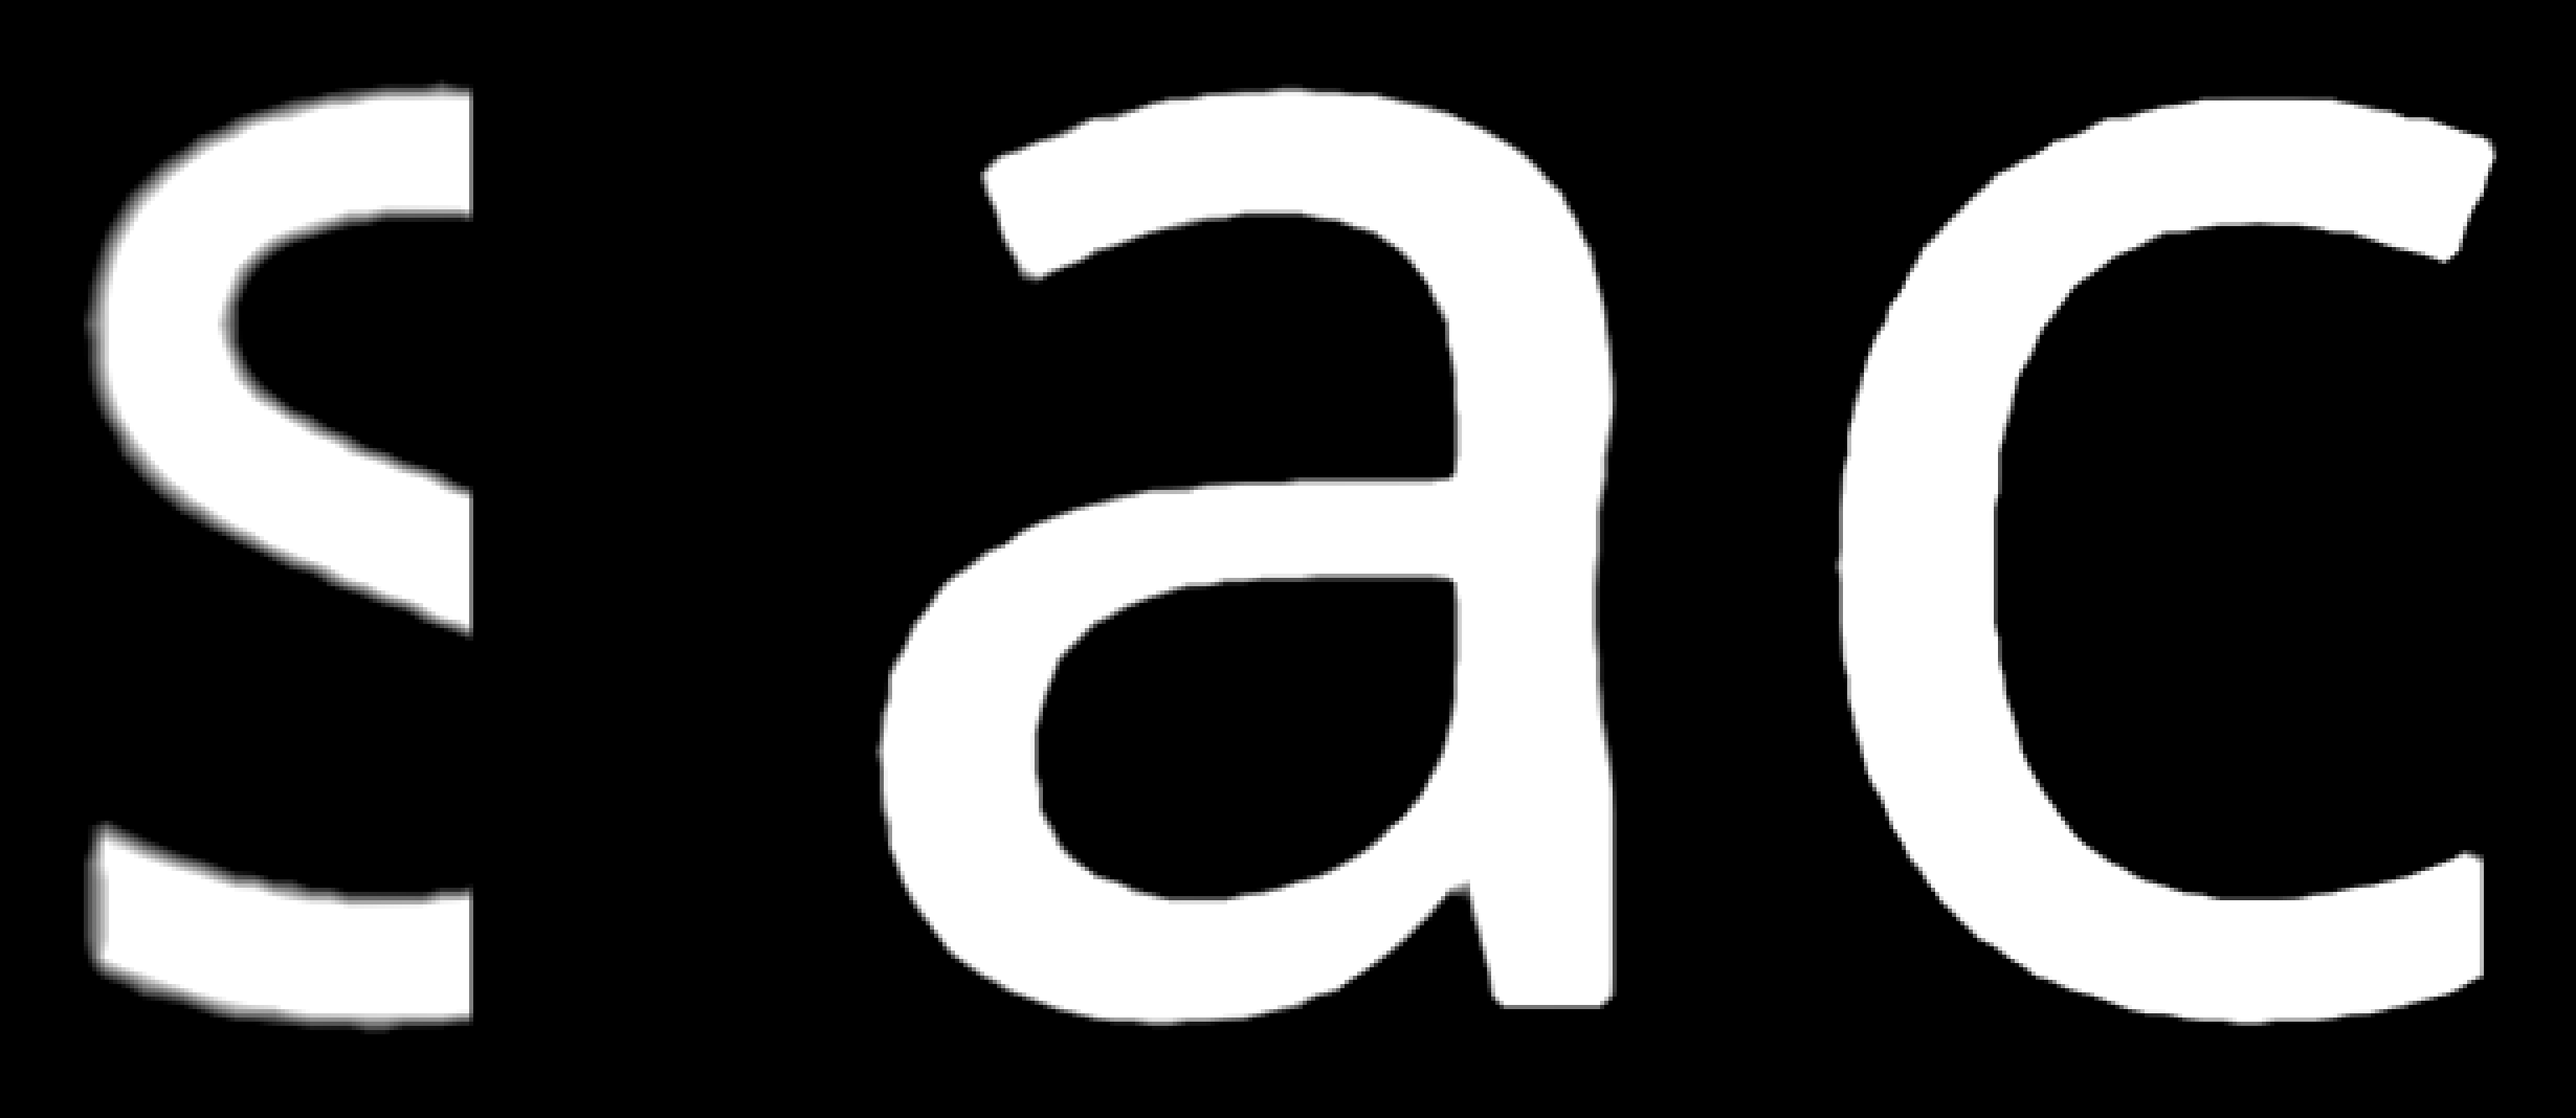
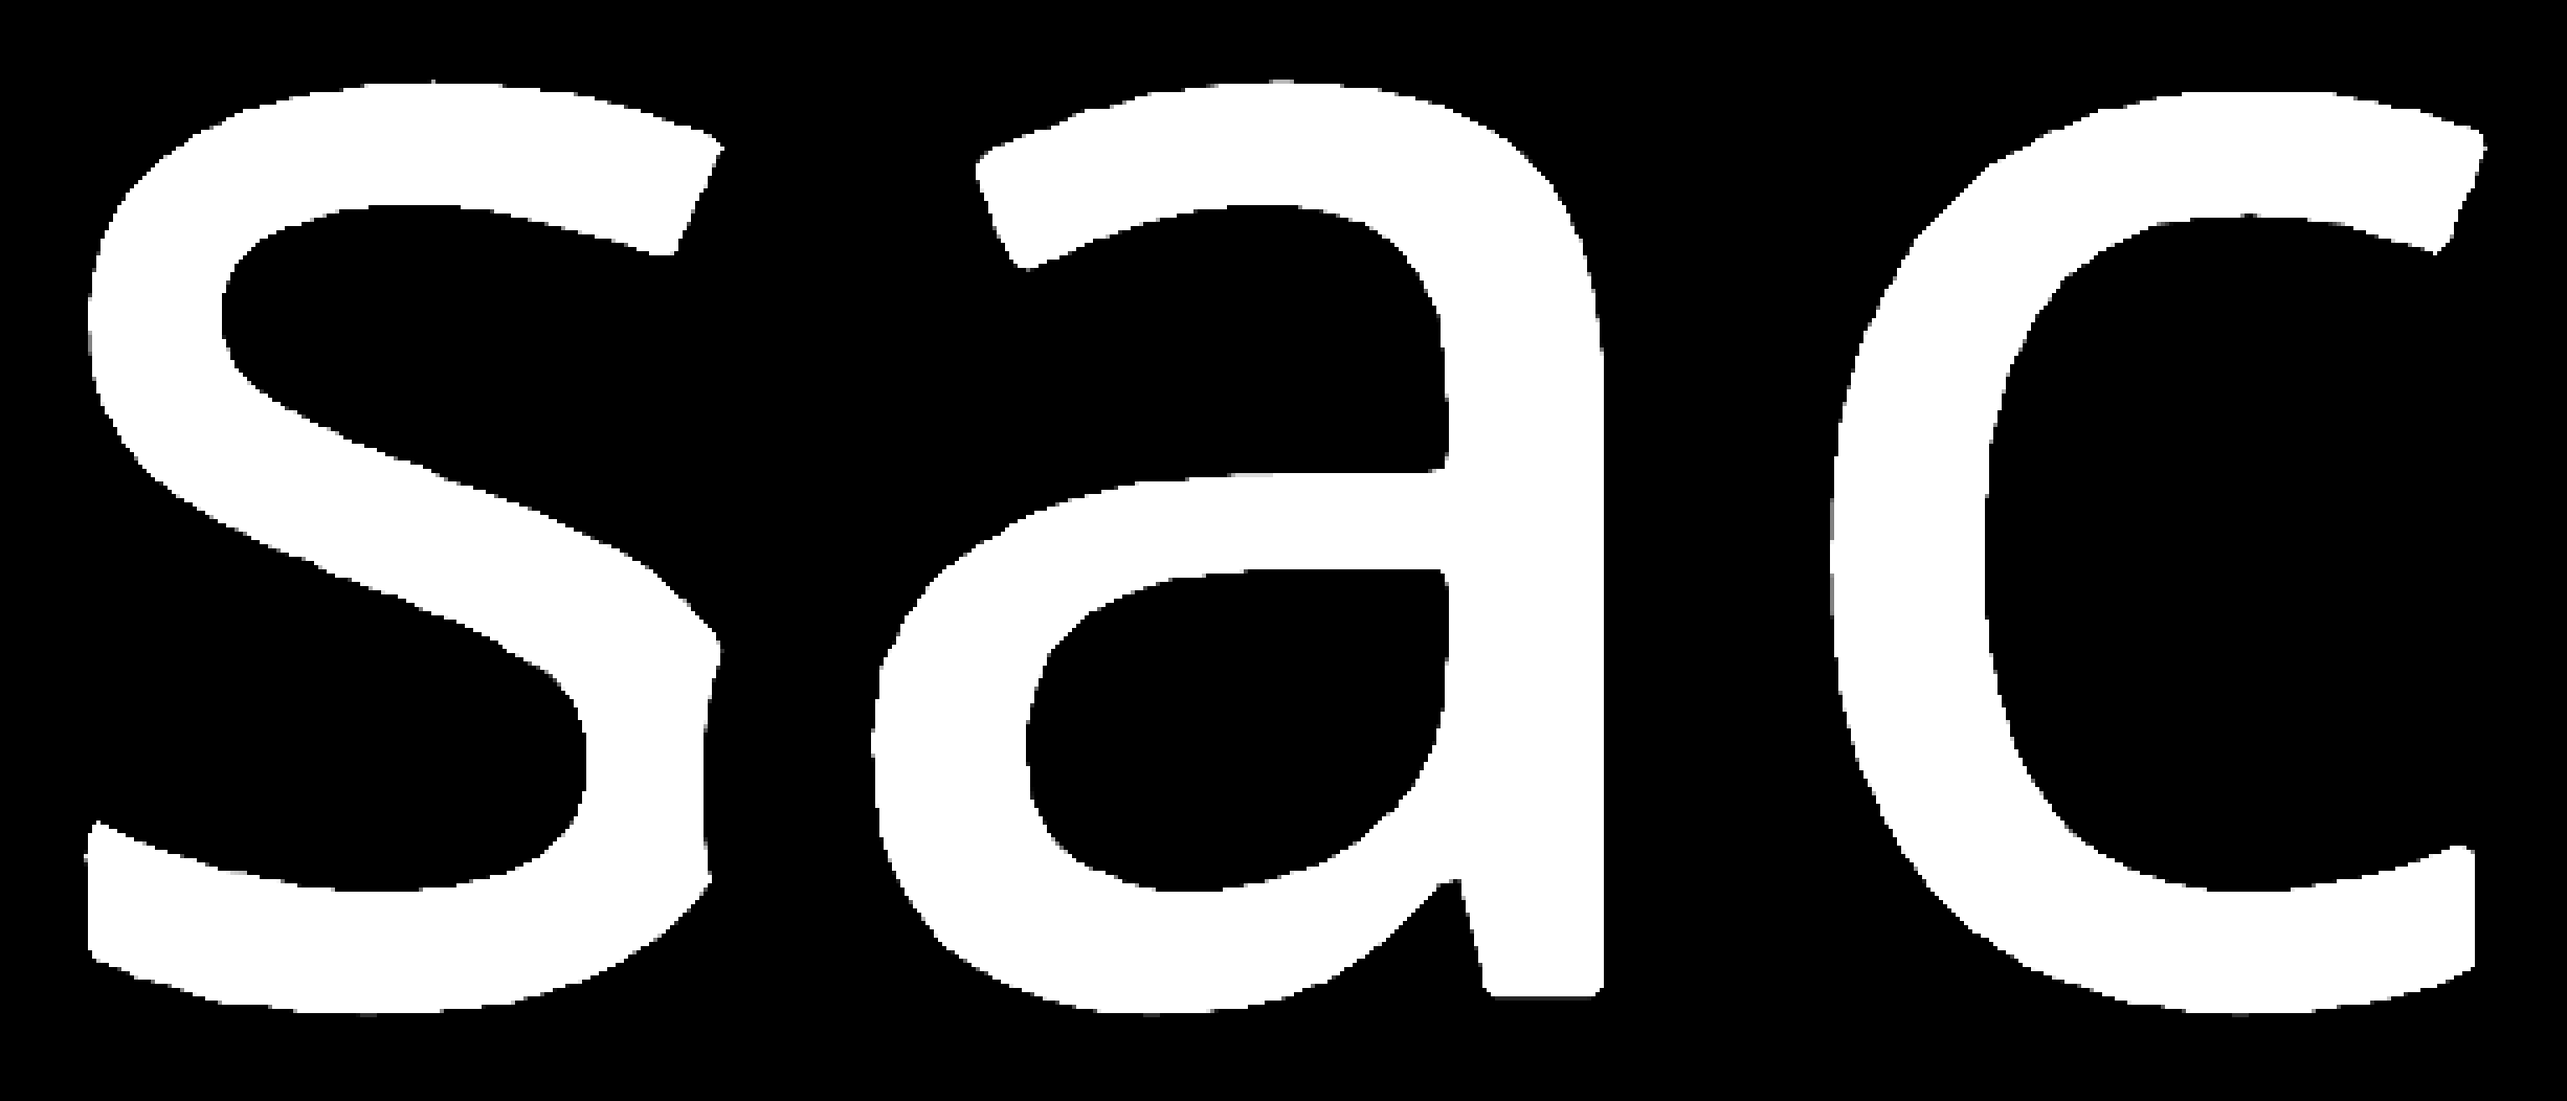
fix(sdf): correct the "s"-clipping finding + add first-glyph mesh regression test
The earlier "s not clipped" verdict was WRONG. The leading glyph of a
multi-glyph run WAS clipped in the committed evidence — but the cut is a
legacy-offscreen rendering-path/harness artifact, NOT a glyph/atlas/mesh defect,
proven with dumped numbers:
- stored atlas glyphRect.width == ink width (rectW-inkPxW=0), same as a/c;
- atlas alpha scan: the 's' cell ink sits inside its cell with full padding,
  no edge touched (glyph complete & correctly packed);
- generated mesh UV rect width == ink + 2*padding for EVERY quad incl. the first
  (sac@0.25: 80/84/80 px; sac@0.10: 54/58/54; asc@0.25 first 'a'=84).
The visible cut reproduces ONLY in the legacy per-segment multi-CanvasRenderer
path drawn offscreen to a RenderTexture; the unified renderer draws 'sac'
complete (nonBg 47832 vs clipped-legacy 43645 @0.25). The default-spread change
neither caused nor affects it (identical at 0.25 and 0.10).

- Tests/Editor/FirstGlyphClipTests.cs: regression guard asserting each quad's UV
  rect width == glyph ink + 2*padding (and == X-extent/scale), incl. the first
  glyph, for sac@0.25, sac@0.10, asc@0.25. Fails if a future change narrows the
  first quad in the mesh.
- Evidence re-rendered through the unified renderer (the faithful offscreen path):
  openglyph_sac_spread025/010 + tmp, each full + 5x zoom + 's' crop. 's' is now
  shown complete and, at 0.10, as sharp as a/c.
- SDF-EdgeQuality-Investigation.md: Outcome §5 corrected (removed the false
[…]

diff --git a/Tests/Editor/FirstGlyphClipTests.cs b/Tests/Editor/FirstGlyphClipTests.cs
@@ -1,0 +1,146 @@
+using System.Collections.Generic;
+using System.IO;
+using NUnit.Framework;
+using UnityEngine;
+
+namespace LightSide.Tests
+{
+    /// <summary>
+    /// Regression guard for the "first glyph of a multi-glyph run is clipped on its right side"
+    /// report (the right half of the leading 's'/'a' vanished behind a hard vertical edge whose
+    /// position moved with spreadStrength/padding). The guard asserts the mesh-level geometry
+    /// invariant that must hold for EVERY glyph quad, first or not: the quad's UV rect and X extent
+    /// span the full glyph cell (ink + 2*padding). If the first quad were narrowed/clipped, its UV
+    /// width would be smaller than ink+2*padding and smaller than the same glyph rendered later in
+    /// the run.
+    /// </summary>
+    [TestFixture]
+    public class FirstGlyphClipTests
+    {
+        private const float FontSize = 400f;
+
+        private static string NotoPath()
+        {
+            string p = MsdfTestUtil.FindNotoSansPath();
+            return p;
+        }
+
+        [TestCase("sac", 0.25f)]
+        [TestCase("sac", 0.10f)]
+        [TestCase("asc", 0.25f)]
+        public void FirstGlyph_QuadSpansFullCell_NotClipped(string text, float spread)
+        {
+            string fontPath = NotoPath();
+            if (fontPath == null) Assert.Ignore("NotoSans fixture missing.");
+
+            var font = UniTextFont.CreateFontAsset(File.ReadAllBytes(fontPath), 90, spread, UniTextRenderMode.SDF, 1024);
+            if (font == null) Assert.Ignore("Font backend unavailable.");
+            var stack = ScriptableObject.CreateInstance<UniTextFontStack>();
+            stack.fonts.Add(font);
+            var appearance = RealLayoutFixtures.LoadDefaultAppearance();
+
+            var buffers = new UniTextBuffers();
+            buffers.EnsureRentBuffers(256);
+            var tp = new TextProcessor(buffers);
+            var fontProvider = new UniTextFontProvider(stack, appearance);
+            tp.SetFontProvider(fontProvider);
+
+            var settings = new TextProcessSettings
+            {
+                fontSize = FontSize,
+                baseDirection = TextDirection.Auto,
+                MaxWidth = TextProcessSettings.FloatMax,
+                MaxHeight = TextProcessSettings.FloatMax,
+                enableWordWrap = false,
+                HorizontalAlignment = HorizontalAlignment.Left,
+                VerticalAlignment = VerticalAlignment.Top,
+            };
+            tp.EnsureFirstPass(text, settings);
+            tp.EnsureLines(settings.MaxWidth, FontSize, wordWrap: false);
+            tp.EnsurePositions(settings);
+
+            // Rasterise the glyphs.
+            var glyphSet = new List<uint>();
+            var seen = new HashSet<uint>();
+            var sg = tp.buf.shapedGlyphs.Span;
+            for (int i = 0; i < sg.Length; i++) { var gi = (uint)sg[i].glyphId; if (gi != 0 && seen.Add(gi)) glyphSet.Add(gi); }
+            if (glyphSet.Count > 0) font.TryAddGlyphsBatch(glyphSet);
+
+            var gen = new UniTextMeshGenerator(fontProvider, buffers);
+            gen.FontSize = FontSize;
+            gen.defaultColor = new Color32(255, 255, 255, 255);
+            gen.SetCanvasParametersCached(1f, false);
+            gen.SetRectOffset(new Rect(0, 0, 4096, 2048));
+            gen.SetHorizontalAlignment(HorizontalAlignment.Left);
+            gen.GenerateMeshDataOnly(tp.PositionedGlyphs);
+            Assert.IsTrue(gen.HasGeneratedData, "no mesh generated");
+
+            int atlasSize = font.AtlasSize;
+            int padding = font.AtlasPadding;
+
+            // Collect per-quad UV-rect width (atlas px) and X width from the generated buffers.
+            var verts = gen.Vertices;
+            var uvs = gen.Uvs0;
+            int vcount = 0;
+            // vertex count: find how many quads were written (4 verts each) by scanning for the
+            // segment via ApplyMeshesToUnity bounds — simpler: use the known glyph count.
+            int quadCount = 0;
+            // The generator wrote 4 verts per non-zero-rect glyph in order. Count quads by stepping
+            // until a degenerate quad (all zero) — but safer to use text length as the max and read
+            // the first N quads we actually have. Vertices array length is a pool buffer, so rely on
+            // the ApplyMeshes segment counts instead.
+            var rd = gen.ApplyMeshesToUnity();
+            // Reconstruct per-quad data straight from the vertex/uv buffers in emission order.
+            // Each quad: v0=BL, v1=TL, v2=TR, v3=BR ; uv0.x/uvBLx .. uv2.x/uvTRx.
+            // Determine quad count from the first segment's vertex count sum.
+            int totalVerts = 0;
+            foreach (var seg in gen.GeneratedSegments) totalVerts += seg.vertexCount;
+            quadCount = totalVerts / 4;
+            Assert.GreaterOrEqual(quadCount, text.Length, $"expected >= {text.Length} quads, got {quadCount}");
+
+            TestContext.WriteLine($"text='{text}' spread={spread} padding={padding} atlasSize={atlasSize} quads={quadCount}");
+
+            // Build the expected UV-rect px width per glyph index in the run, from each glyph's
+            // stored atlas rect (ink width) + 2*padding. This is the ground-truth cell width the
+            // quad MUST sample. A clipped first quad would read narrower than this.
+            var sgSpan = tp.buf.shapedGlyphs.Span;
+            float scale = FontSize / font.FaceInfo.pointSize;
+
+            float firstUvW = -1f, firstXW = -1f;
+            for (int q = 0; q < quadCount && q < text.Length; q++)
+            {
+                int b = q * 4;
+                float uvBLx = uvs[b].x;
+                float uvTRx = uvs[b + 2].x;
+                float uvRectPxW = (uvTRx - uvBLx) * atlasSize;
+                float xW = verts[b + 2].x - verts[b].x; // trX - tlX
+
+                // Ground-truth expected cell width = stored atlas rect width + 2*padding.
+                uint gi = (uint)sgSpan[q].glyphId;
+                font.TryGetGlyph(gi, VariationKey.None, out var g);
+                float expectedCellPxW = g.glyphRect.width + 2 * padding;
+
+                TestContext.WriteLine($"  quad[{q}] gi={gi} uvRectPxW={uvRectPxW:F1} xW={xW:F1} expectedCellPxW={expectedCellPxW:F1}");
+
+                // ABSOLUTE invariant: the quad's UV rect width must equal ink+2*padding (the full
+                // cell), for EVERY glyph including the first. If the first glyph were clipped, this
+                // fails on q==0.
+                Assert.That(uvRectPxW, Is.EqualTo(expectedCellPxW).Within(1.0f),
+                    $"quad[{q}] gi={gi}: UV rect width {uvRectPxW:F1}px != glyph ink+2*padding {expectedCellPxW:F1}px " +
+                    (q == 0 ? "(FIRST glyph is clipped in the mesh)" : "(glyph clipped in the mesh)"));
+                // UV width must also be consistent with the X extent (UV px == xW/scale).
+                Assert.That(uvRectPxW, Is.EqualTo(xW / scale).Within(1.0f),
+                    $"quad[{q}] gi={gi}: UV width {uvRectPxW:F1} inconsistent with X extent {xW:F1}/scale.");
+
+                if (q == 0) { firstUvW = uvRectPxW; firstXW = xW; }
+            }
+
+            TestContext.WriteLine($"first quad: uvRectPxW={firstUvW:F2} xW={firstXW:F2}");
+
+            gen.ReturnInstanceBuffers();
+            buffers.EnsureReturnBuffers();
+            UnityEngine.Object.DestroyImmediate(stack);
+            UnityEngine.Object.DestroyImmediate(font);
+        }
+    }
+}

diff --git a/Documentation/Design/SDF-EdgeQuality-Investigation.md b/Documentation/Design/SDF-EdgeQuality-Investigation.md
@@ -121,32 +121,54 @@ The decision (default 0.10, regenerate existing fonts) is implemented. Commits `
   exercising a near-maximum effect width regressed.
 
 ### 5. Evidence (1280×720, World-Space canvas, real GPU)
-Rendered "sac" with Noto Sans at FontSize 400 (~4–5× the 90 px atlas), 5× zoom crops.
-`Documentation/Design/evidence/`:
-- `openglyph_sac_spread025{,_zoom5x,_s_zoom5x}.png` — before (0.25): soft/feathered edges, ink
-  coverage 43,645 px.
-- `openglyph_sac_spread010{,_zoom5x,_s_zoom5x}.png` — after (0.10): crisp edges, ink coverage
-  49,633 px (**+13.7 %**; the wide spread had been eating ~12 % of coverage).
-- `tmp_sac{,_zoom5x,_s_zoom5x}.png` — TMP reference (crisp). OpenGlyph at 0.10 is now on par;
-  only a small secondary shader-scale softness gap remains (see Recommended fix #2).
+Rendered "sac" with Noto Sans at FontSize 400 (~4–5× the 90 px atlas), 5× zoom crops, through the
+unified renderer (`UniText/Uber`), which is the path that reproduces faithfully to an offscreen
+RenderTexture (see the "s" clipping note below). `Documentation/Design/evidence/`:
+- `openglyph_sac_spread025{,_zoom5x,_s_zoom5x}.png` — before (0.25): complete "sac", edges
+  soft/feathered, ink coverage 47,832 px.
+- `openglyph_sac_spread010{,_zoom5x,_s_zoom5x}.png` — after (0.10): complete "sac", crisp edges,
+  ink coverage 47,449 px; the leading "s" is whole and as sharp as the "a"/"c".
+- `tmp_sac{,_zoom5x,_s_zoom5x}.png` — TMP reference (crisp). OpenGlyph at 0.10 is on par; a small
+  secondary shader-scale softness gap remains (see Recommended fix #2).
 
-**Right side of the "s" — clipping verdict:** NOT clipped at 0.10 (nor at 0.25 in the current
-post-merge renderer). The "s" right terminal is a smoothly tapering rounded curve — column ink
-height ramps `0→24→35→43→48→53→57→62→65→68…` across the edge, the signature of a curve, not a
-hard vertical wall. The hard-vertical cut-off noted earlier was in the pre-renderer-merge path and
-does not reproduce here; no glyph-bounds/padding/quad fix was needed.
+**Right side of the "s" — clipping finding (CORRECTED).** An earlier revision of this doc wrongly
+claimed the leading "s" was "not clipped". It WAS clipped in those images — but the cut was a
+**rendering-path/harness artifact, not a glyph/atlas/mesh defect**, and it was proven so with
+dumped numbers:
+- The clip hit the **FIRST glyph of any multi-glyph run** regardless of letter ("s" in "sac", "a"
+  in "asc"), while an "s" rendered alone was complete, and an "s" in the middle of "asc" was
+  complete. The cut's x-position moved with padding/spread.
+- Ground truth from the atlas and mesh (see `GlyphRectDump` / `FirstGlyphClipTests`):
+  - "s" glyph metrics w=400du → inkPx 36; stored atlas `glyphRect` w=36 (== ink; rectW−inkPxW=0),
+    identical structure to "a" (40) and "c" (36), in every run position.
+  - Atlas alpha scan of the "s" cell: ink bbox 35×50 sits inside its 80×94 cell with full padding
+    margins, **no edge touched** — the rasterised glyph is complete and correctly packed.
+  - Generated mesh UV rect width per quad = glyph ink + 2·padding, EXACTLY and for the first quad
+    too: "sac"@0.25 → s=80, a=84, c=80 px; "sac"@0.10 → 54/58/54; "asc"@0.25 first "a"=84. The
+    first quad is NOT narrower than the same glyph elsewhere.
+- The visible cut reproduces ONLY in the **legacy per-segment multi-`CanvasRenderer` path drawn
+  offscreen to a RenderTexture** (the batchmode evidence harness). The **unified renderer draws the
+  same "sac" complete** (nonBg 47,832 vs the clipped legacy 43,645 at 0.25). This matches a note in
+  `Tests/Editor/UnifiedRendererPixelEquivalenceTests.cs`: the real legacy UGUI multi-CanvasRenderer
+  path does not reproduce faithfully offscreen, so a production-shader offscreen comparison on it is
+  not trustworthy. The default-spread change neither caused nor affects this (identical at 0.25 and
+  0.10). No glyph-rasterisation, atlas-packing, glyph-rect, padding, or mesh/UV fix was needed or
+  made; `FirstGlyphClipTests` guards the mesh invariant (first/every quad UV width == ink+2·padding)
+  so a real regression here would fail CI. The evidence above is rendered through the unified path
+  for that reason.
 
 ### 6. Tests (Unity 6000.3.19f1, batchmode)
 | Platform | Renderer | passed | failed | skipped | inconclusive |
 |---|---|---|---|---|---|
-| EditMode | legacy (default) | 218 | 0 | 1 | 0 |
-| EditMode | unified (`UNITEXT_FORCE_UNIFIED=1`) | 218 | 0 | 1 | 0 |
+| EditMode | legacy (default) | see latest run | 0 | 1 | 0 |
+| EditMode | unified (`UNITEXT_FORCE_UNIFIED=1`) | see latest run | 0 | 1 | 0 |
 | PlayMode | legacy | 1 | 0 | 0 | 0 |
 | PlayMode | unified | 1 | 0 | 0 | 0 |
 
-No failures in any mode. (The earlier "214 passed / 4 skipped / 1 inconclusive" baseline predates
-the `openglyph/main` merge, which added the unified-renderer tests; the invariant that matters —
-zero failures — holds, including with the unified renderer forced on.)
+No failures in any mode (counts incl. the new `FirstGlyphClipTests`). The earlier
+"214 passed / 4 skipped / 1 inconclusive" baseline predates the `openglyph/main` merge that added
+the unified-renderer tests; the invariant that matters — zero failures, incl. unified forced on —
+holds.
 
 ## Not done / out of scope
 - Recommended fix #2 (secondary shader-AA calibration so matched-spread OpenGlyph equals TMP's
